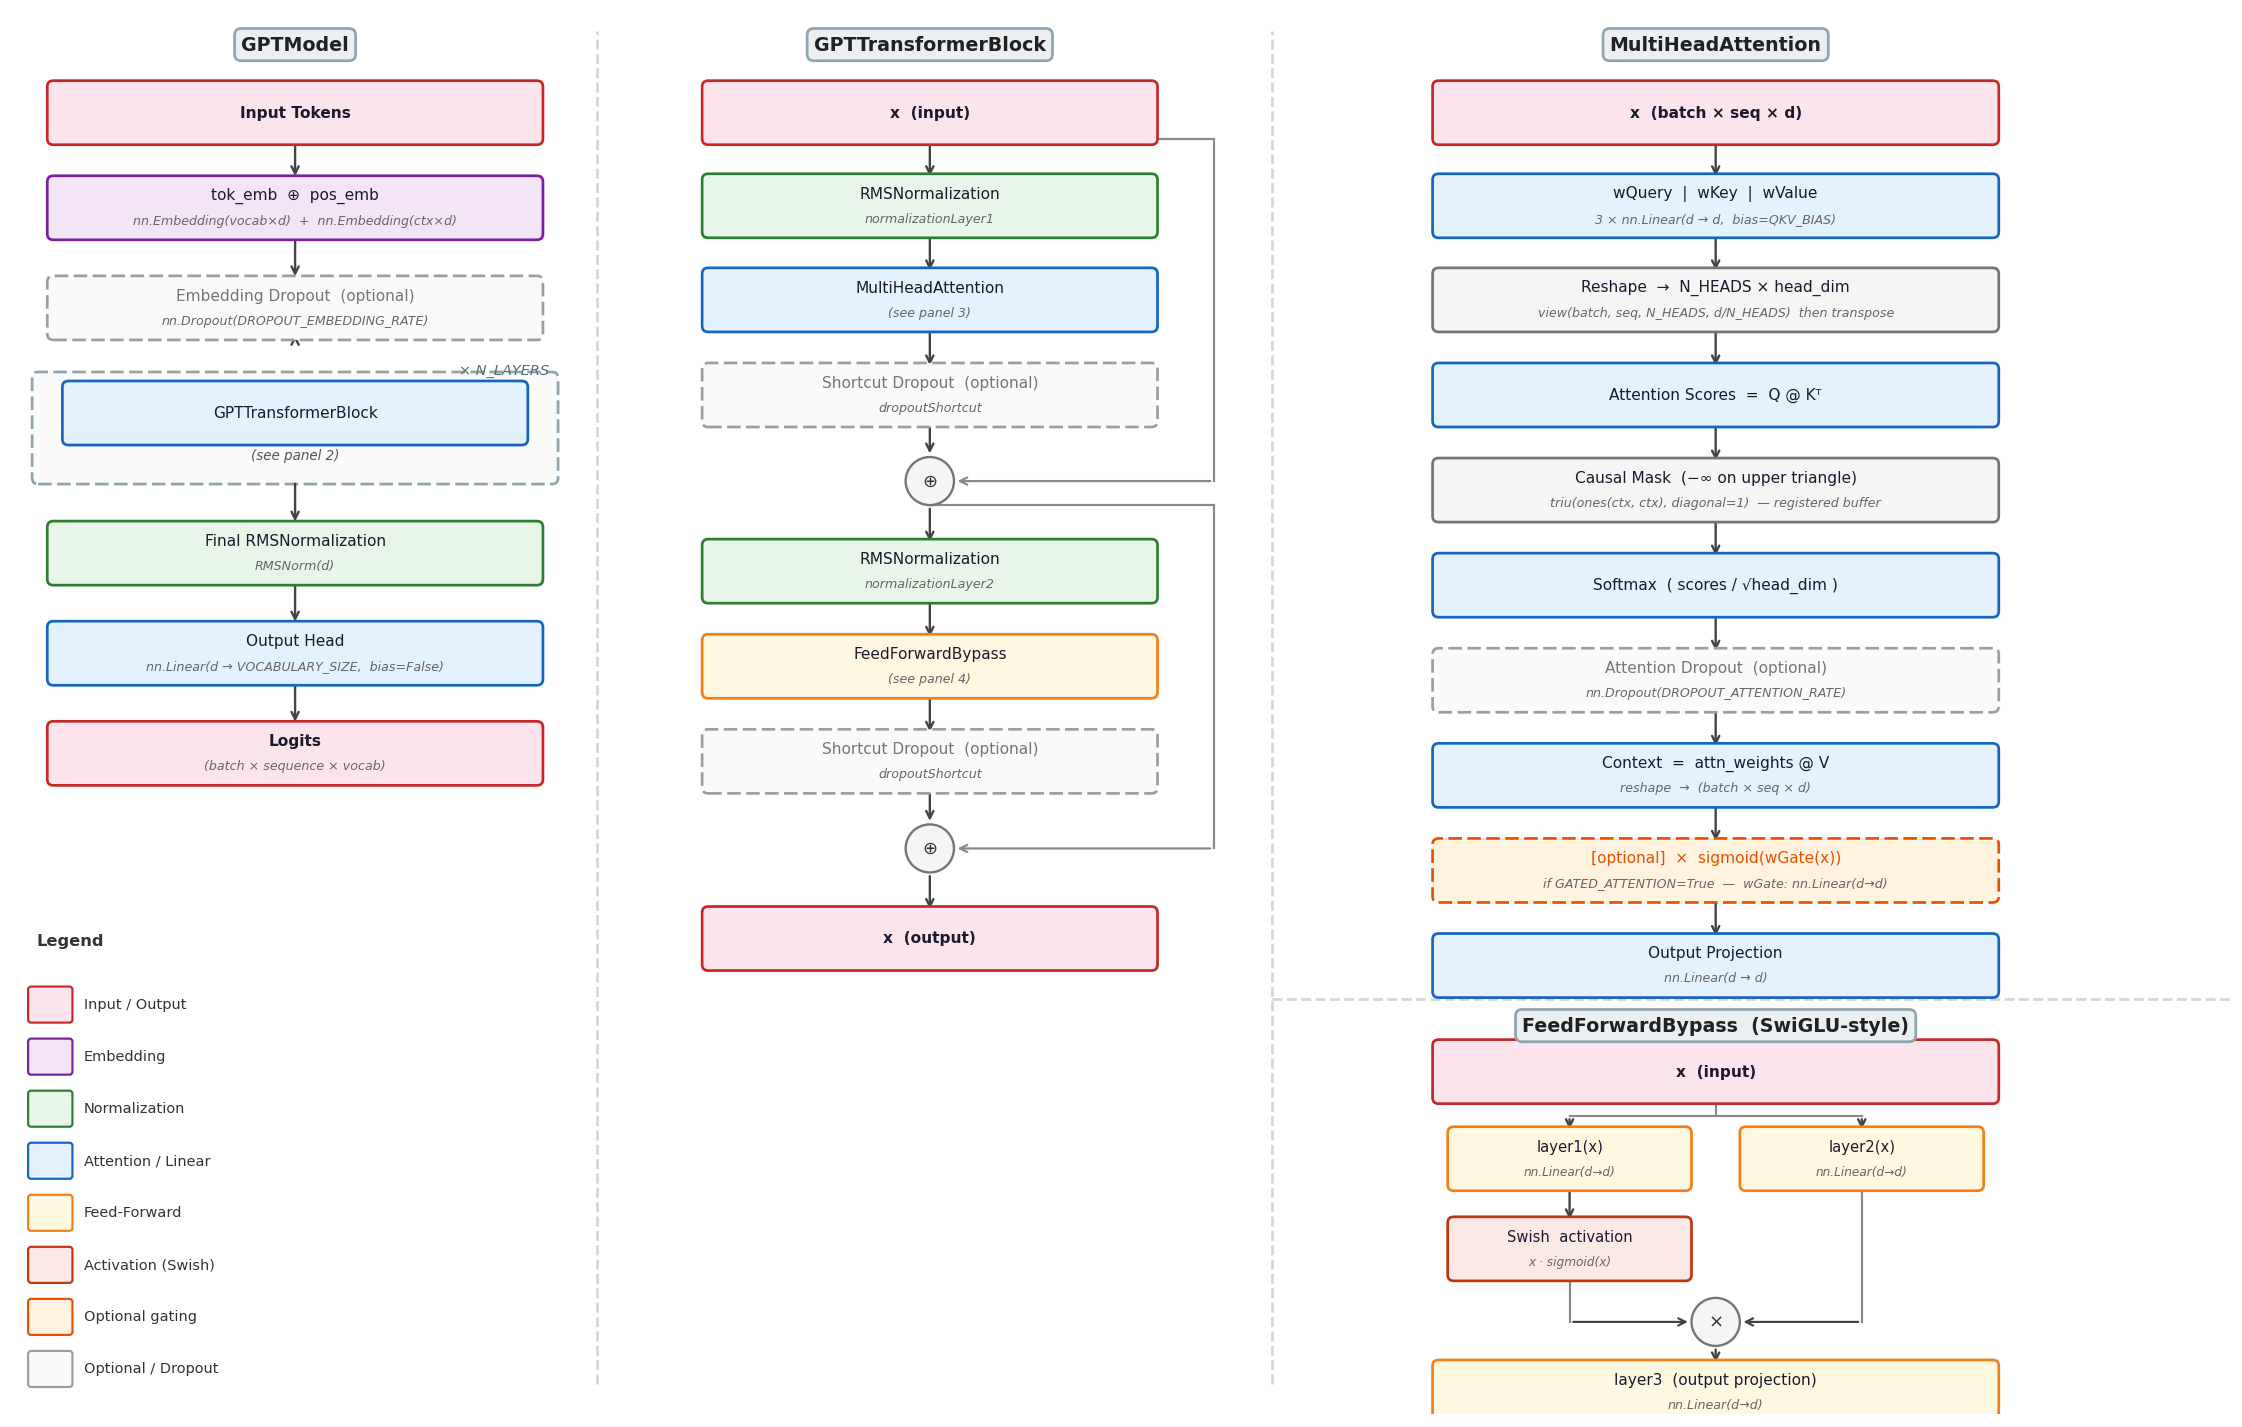
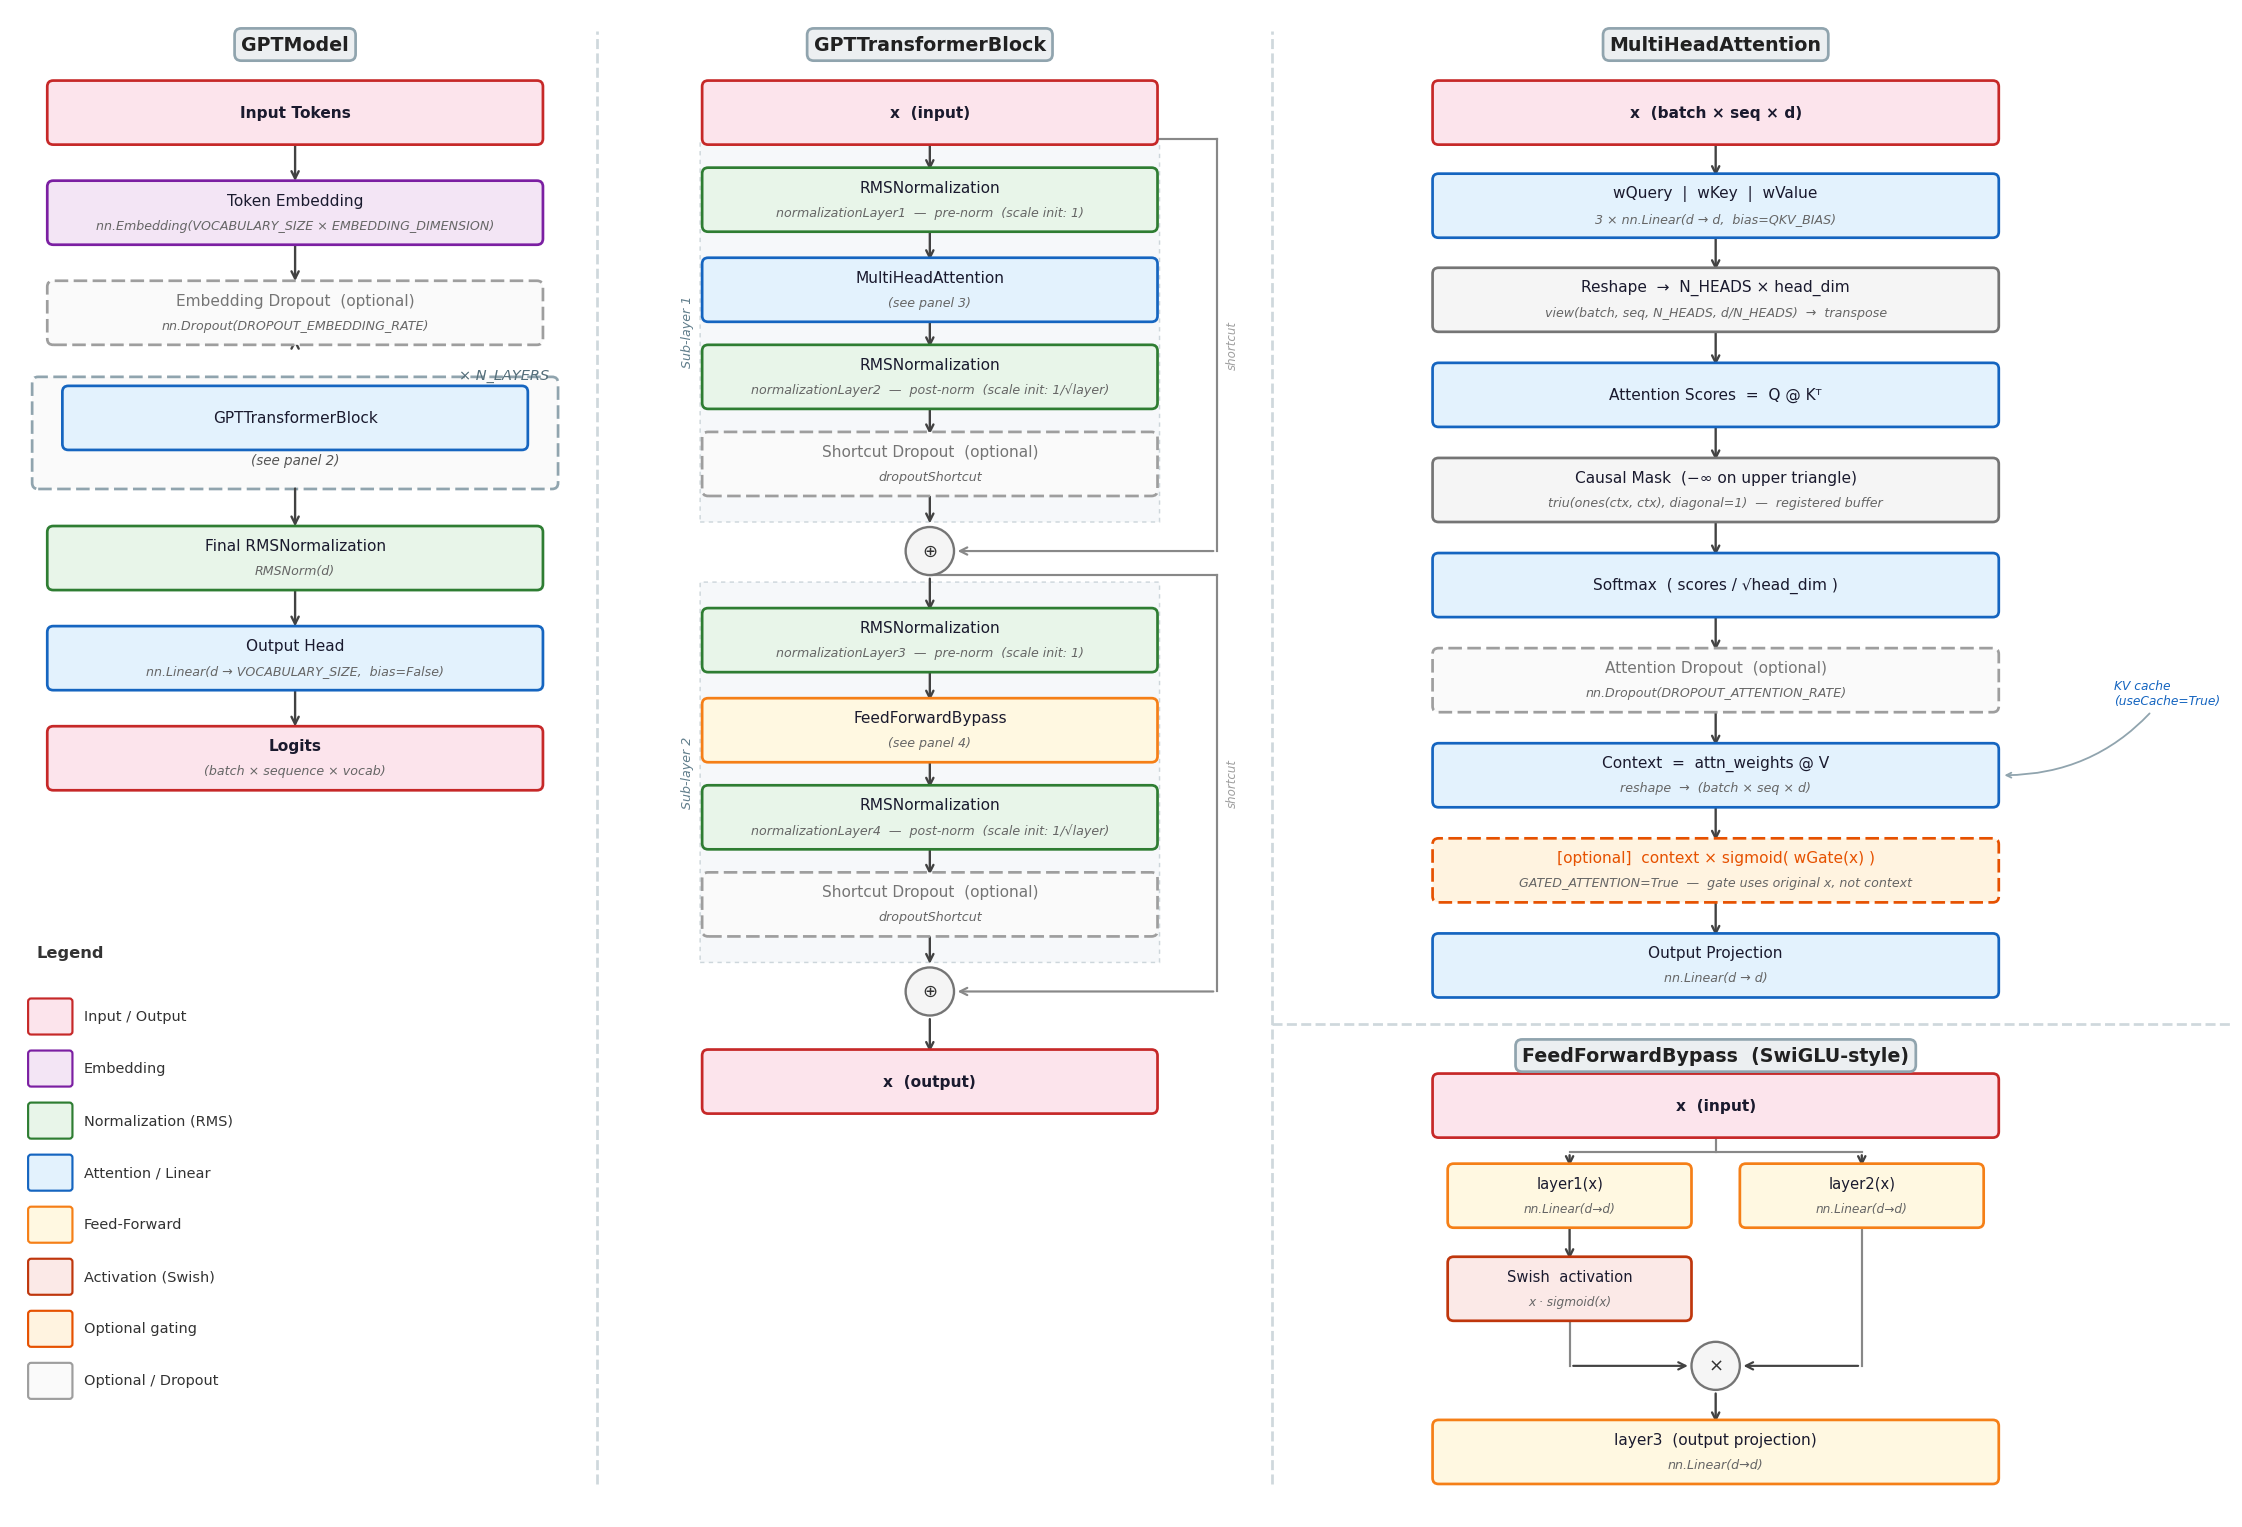
disable positional embeddings, add 2 extra rms normalisation layers after attention and feed forward

diff --git a/GPTModel.py b/GPTModel.py
@@ -13,7 +13,7 @@ class GPTModel(nn.Module):
         #create the token embedding  
         self.tokenEmbeddings = nn.Embedding(config[VOCABULARY_SIZE],config[EMBEDDING_DIMENSION],dtype=dtType,device=device)
         #create the positional embedding
-        self.positionalEmbeddings = nn.Embedding(config[CONTEXT_LENGTH],config[EMBEDDING_DIMENSION],dtype=dtType,device=device)
+        # self.positionalEmbeddings = nn.Embedding(config[CONTEXT_LENGTH],config[EMBEDDING_DIMENSION],dtype=dtType,device=device)
         #create the dropout embedding
         if self.config[DROPOUT_EMBEDDING_RATE] > 0:
             self.dropoutEmbeddings = nn.Dropout(config[DROPOUT_EMBEDDING_RATE])
@@ -21,10 +21,10 @@ class GPTModel(nn.Module):
             self.dropoutEmbeddings = None
         #create the transformer blocks
         self.tranformerBlocks = nn.ModuleList(
-            [GPTTransformerBlock(config,dtType=dtType,device=device) for _ in range(config[N_LAYERS])]
+            [GPTTransformerBlock(config,dtType=dtType,layer=layerDepth+1,device=device) for layerDepth in range(config[N_LAYERS])]
         )
         #create the final normalization layer
-        self.finalNormalization = RMSNormalization(embeddingDimension=config[EMBEDDING_DIMENSION],dtType=dtType,device=device)
+        self.finalNormalization = RMSNormalization(embeddingDimension=config[EMBEDDING_DIMENSION],layer=None,dtType=dtType,device=device)
         #create OutHead as a linear transformation
         self.outHead = nn.Linear(config[EMBEDDING_DIMENSION],config[VOCABULARY_SIZE],bias=False,dtype=dtType,device=device)
 
@@ -37,15 +37,15 @@ class GPTModel(nn.Module):
     
         #embeddings and positional embeddings for the input, ensures that the embeddings are on the correct device
         inTokenEmbeddings = self.tokenEmbeddings(inIndex)
-        if useCache:
-            positionalIds = torch.arange(self.currentPos,self.currentPos+sequenceLength,device=inIndex.device,dtype=torch.int)
-            self.currentPos+=sequenceLength
-        else:
-            positionalIds = torch.arange(0, sequenceLength, device=inIndex.device, dtype=torch.int)
-        inPositionalEmbeddings = self.positionalEmbeddings(positionalIds).unsqueeze(0)
+        # if useCache:
+        #     positionalIds = torch.arange(self.currentPos,self.currentPos+sequenceLength,device=inIndex.device,dtype=torch.int)
+        #     self.currentPos+=sequenceLength
+        # else:
+        #     positionalIds = torch.arange(0, sequenceLength, device=inIndex.device, dtype=torch.int)
+        # inPositionalEmbeddings = self.positionalEmbeddings(positionalIds).unsqueeze(0)
 
         #modify the embeddings with the positional embeddings
-        x = inTokenEmbeddings + inPositionalEmbeddings
+        x = inTokenEmbeddings #+ inPositionalEmbeddings
         
         #apply dropout
         if self.dropoutEmbeddings:
@@ -76,7 +76,7 @@ class GPTModel(nn.Module):
 
 
 class GPTTransformerBlock(nn.Module):
-    def __init__(self,config,dtType,device):
+    def __init__(self,config,layer,dtType,device):
         super().__init__()
         self.attention = MultiHeadAttention(
             config[N_HEADS], 
@@ -89,8 +89,12 @@ class GPTTransformerBlock(nn.Module):
             config.get(GATED_ATTENTION,True)
         )
         self.feedForward = FeedForwardBypass(embeddingDimension=config[EMBEDDING_DIMENSION],dtType=dtType,device=device)
-        self.normalizationLayer1 = RMSNormalization(embeddingDimension=config[EMBEDDING_DIMENSION],dtType=dtType,device=device)
-        self.normalizationLayer2 = RMSNormalization(embeddingDimension=config[EMBEDDING_DIMENSION],dtType=dtType,device=device)
+        self.normalizationLayer1 = RMSNormalization(embeddingDimension=config[EMBEDDING_DIMENSION],layer=None,dtType=dtType,device=device)
+        self.normalizationLayer2 = RMSNormalization(embeddingDimension=config[EMBEDDING_DIMENSION],layer=layer,dtType=dtType,device=device)
+        self.normalizationLayer3 = RMSNormalization(embeddingDimension=config[EMBEDDING_DIMENSION],layer=None,dtType=dtType,device=device)
+        self.normalizationLayer4 = RMSNormalization(embeddingDimension=config[EMBEDDING_DIMENSION],layer=layer,dtType=dtType,device=device)
+
+        
         if config[DROPOUT_SHORTCUT_RATE] > 0:
             self.dropoutShortcut = nn.Dropout(config[DROPOUT_SHORTCUT_RATE])
         else: 
@@ -100,16 +104,22 @@ class GPTTransformerBlock(nn.Module):
         shortcut = x
         x = self.normalizationLayer1(x)
         x = self.attention(x,useCache)
+        x = self.normalizationLayer2(x)
+
         if self.dropoutShortcut:
             x = self.dropoutShortcut(x)
         x = x + shortcut
 
+
         shortcut = x
-        x = self.normalizationLayer2(x)
+        x = self.normalizationLayer3(x)
         x = self.feedForward(x)
+        x = self.normalizationLayer4(x)
+
         if self.dropoutShortcut:
             x = self.dropoutShortcut(x)
         x = x + shortcut
+
 
         return x
     

diff --git a/Modules.py b/Modules.py
@@ -1,3 +1,5 @@
+from math import sqrt
+
 import torch
 import torch.nn as nn
 
@@ -64,9 +66,15 @@ class LayerNormalization(nn.Module):
         return self.scale * normalizedX + self.shift
     
 class RMSNormalization(nn.Module):
-    def __init__(self,embeddingDimension,dtType,device):
+    def __init__(self,embeddingDimension,layer,dtType,device):
         super().__init__()
-        self.scale = nn.Parameter(torch.ones(embeddingDimension,dtype=dtType,device=device))
+        self.scale = nn.Parameter(
+            torch.full(
+                size= (embeddingDimension,),
+                fill_value=1/sqrt(layer) if layer != None else 1,
+                dtype=dtType,
+                device=device)
+            )
 
     def forward(self,x):
         rms = torch.sqrt(torch.mean(x ** 2, dim=-1,keepdim=True) + 1e-5)
